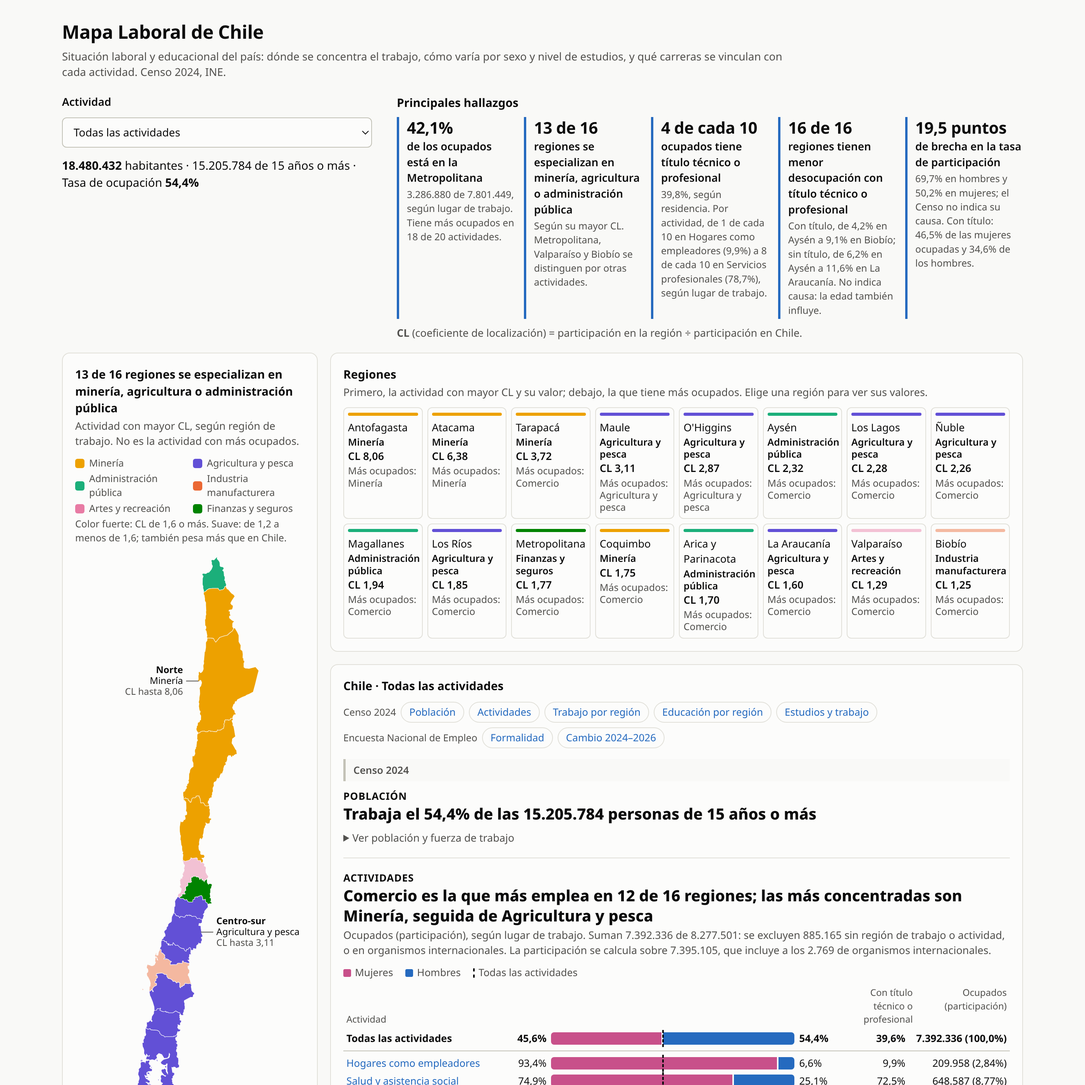
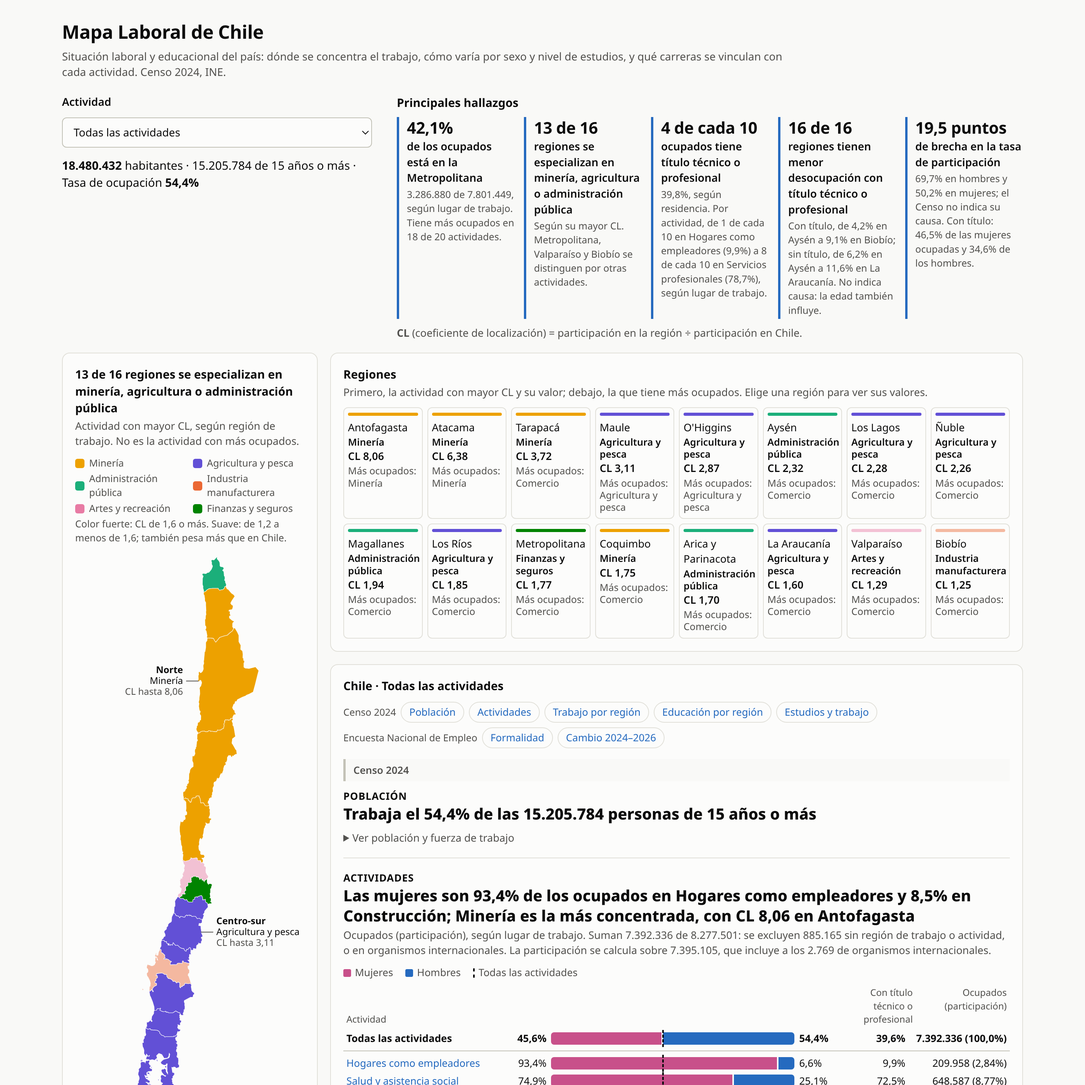
Ajusta el resumen para que cada gráfico se lea a la primera
- Actividades: rótulos de sus cifras en celular y un título que dice lo que muestran sus gráficos.
- Cambio 2024-2026 en dos tonos de violeta; ocre y azul quedan para informal y formal.
- Sin título superior en gris en Estudios y trabajo, no en verde.
- Aviso para deslizar las columnas por región, solo cuando no caben.
- Menos texto que repite el gráfico en Estudios y trabajo y Formalidad.

Changed region(s): [[0.3107, 0.8079, 0.9011, 0.87]]

diff --git a/docs/index.html b/docs/index.html
@@ -9,10 +9,13 @@ Estructura de la página. generar_mapa.py le agrega los estilos de css/, el cód
 <meta name="viewport" content="width=device-width, initial-scale=1">
 <title>Mapa Laboral de Chile</title>
 <style>
-.viz-root{color-scheme:light;--plano:#f9f9f7;--sup:#fcfcfb;--t1:#0b0b0b;--t2:#52514e;--linea:#e1e0d9;--eje:#c3c2b7;--acento:#256abf;--hom:#256abf;--muj:#c8508a;--cl:#c9302f;--a24:#c98a00;--a26:#256abf;--g24:#cfcdc6;--g26:#9a9890;--tit-con:#08724d;--tit-sin:#1baf7a;--recibe:#0081a8;--ed-pro:#08724d;--fo-inf:#c08a1e;--fo-for:#2a6ea8;--fo-for-txt:#fff;--ed-tec:#8a8a1a;--entrega:#b5562b;--aviso-fondo:#fdf4e3;
+/* Años del cambio (--a24, --a26): dos tonos de violeta, claro y oscuro como el par gris de "dentro del margen". Ocre y azul
+   no, porque en Formalidad, la sección anterior, significan informal y formal. Validados con validate_palette.js (--ordinal).
+   Sin título superior (--tit-sin) va en gris: en verde, el color de los títulos en Educación por región, se leía como titulado. */
+.viz-root{color-scheme:light;--plano:#f9f9f7;--sup:#fcfcfb;--t1:#0b0b0b;--t2:#52514e;--linea:#e1e0d9;--eje:#c3c2b7;--acento:#256abf;--hom:#256abf;--muj:#c8508a;--cl:#c9302f;--a24:#9d92ea;--a26:#4f3dbd;--g24:#cfcdc6;--g26:#9a9890;--tit-con:#08724d;--tit-sin:#a3a19a;--recibe:#0081a8;--ed-pro:#08724d;--fo-inf:#c08a1e;--fo-for:#2a6ea8;--fo-for-txt:#fff;--ed-tec:#8a8a1a;--entrega:#b5562b;--aviso-fondo:#fdf4e3;
 --sd:#bdbbb3;--c0:#3987e5;--c1:#86b6ef;--c2:#cde2fb;--c3:#e2e0d8;--c4:#f7c6c1;--c5:#ee8a84;--c6:#c9302f;
 --k0:#eda100;--k1:#6250d6;--k2:#1baf7a;--k3:#eb6834;--k4:#e87ba4;--k5:#008300;}
-@media (prefers-color-scheme:dark){.viz-root{color-scheme:dark;--plano:#0d0d0d;--sup:#1a1a19;--t1:#f0efec;--t2:#c3c2b7;--linea:#2c2c2a;--eje:#383835;--acento:#6da7ec;--hom:#4f8fe0;--muj:#d9619d;--cl:#e0605a;--a24:#c08400;--a26:#4f8fe0;--g24:#45443f;--g26:#7a7872;--tit-con:#1aab78;--tit-sin:#117350;--recibe:#1a9cc4;--ed-pro:#1aab78;--fo-inf:#c08400;--fo-for:#5a9ad0;--fo-for-txt:#0b0b0b;--ed-tec:#7a7a10;--entrega:#c9673a;--aviso-fondo:#2a2416;
+@media (prefers-color-scheme:dark){.viz-root{color-scheme:dark;--plano:#0d0d0d;--sup:#1a1a19;--t1:#f0efec;--t2:#c3c2b7;--linea:#2c2c2a;--eje:#383835;--acento:#6da7ec;--hom:#4f8fe0;--muj:#d9619d;--cl:#e0605a;--a24:#7466d8;--a26:#b2a9f2;--g24:#45443f;--g26:#7a7872;--tit-con:#1aab78;--tit-sin:#62615b;--recibe:#1a9cc4;--ed-pro:#1aab78;--fo-inf:#c08400;--fo-for:#5a9ad0;--fo-for-txt:#0b0b0b;--ed-tec:#7a7a10;--entrega:#c9673a;--aviso-fondo:#2a2416;
 --sd:#55534e;--c0:#5598e7;--c1:#256abf;--c2:#184f95;--c3:#383835;--c4:#7d2b2a;--c5:#b73a39;--c6:#ee8a84;
 --k0:#c98500;--k1:#9085e9;--k2:#199e70;--k3:#d95926;--k4:#d55181;--k5:#008300;}}
 *{box-sizing:border-box}
@@ -258,6 +261,8 @@ button.sn-fila{font:inherit;color:inherit;background:none;border:0;text-align:le
 @media(max-width:1290px){.detalle{grid-column:1/-1}.tarjeta.mapa{grid-row:auto}}
 @media(max-width:900px){.grilla{grid-template-columns:minmax(0,1fr)}}
 @media(max-width:640px){.fo-reg.gs-cab{display:grid}.fo-reg.gs-cab .fo-nombre,.fo-reg.gs-cab span:nth-child(2){display:none}.fo-reg.gs-cab .fo-miles{grid-column:2}.fo-panel .fo-fila,.fo-reg{grid-template-columns:minmax(0,1fr) 6.6em}.fo-paneles{grid-template-columns:minmax(0,1fr)}.fo-fila{grid-template-columns:minmax(0,1fr) 5.6em;row-gap:2px}.fo-nombre{grid-column:1/-1}.ed-fila{grid-template-columns:minmax(0,1fr) 5.4em;row-gap:2px}.ed-fila .cl-nombre{grid-column:1/-1}.ed-fila .gs-num{grid-column:2}.ed-fila.gs-cab{display:grid}.ed-fila.gs-cab .cl-nombre,.ed-fila.gs-cab span:nth-child(2){display:none}.tr-fila{grid-template-columns:minmax(0,1fr)}.gs-fila{grid-template-columns:3.4em minmax(0,1fr) 3.4em;row-gap:2px;padding:4px}.gs-nombre{grid-column:1/-1}.gs-cab{display:none}.sn-fila{grid-template-columns:minmax(0,1fr);row-gap:3px}.evc-col{width:26px}.evc-col em{font-size:11px}.evc-cols{gap:2px}.evc{padding-left:2em}.evc-grilla span{left:2em}.evc.compacto{padding-left:4.4em}.compacto .evc-grilla span{left:4.4em}table{display:block;overflow-x:auto}.viz-root{padding:14px}.grilla{grid-template-columns:minmax(0,1fr)}.mapa svg{max-width:200px}.lista{grid-template-columns:repeat(2,minmax(0,1fr))}}
+/* Actividades en celular: el encabezado de columnas se oculta, así que cada cifra lleva su rótulo en su propia línea. */
+@media(max-width:640px){.gs-extra{grid-column:1/-1;margin-left:0;grid-template-columns:auto auto;justify-content:start;gap:16px}.gs-extra .gs-num{text-align:left}.gs-et{display:inline;color:var(--t2)}}
 </style>
 </head>
 <body>
@@ -458,8 +463,12 @@ function extremosDesoc(){const d=Object.entries(EST.desocupacion_titulo),menor=d
  const rango=i=>{const [a,va]=d.reduce((m,x)=>x[1][i]<m[1][i]?x:m),[b,vb]=d.reduce((m,x)=>x[1][i]>m[1][i]?x:m);
   return `de ${num(va[i],1)}% en ${nomReg(Number(a))} a ${num(vb[i],1)}% en ${nomReg(Number(b))}`};
  return {menor,n:d.length,con:rango(0),sin:rango(1)}}
+// En pantallas angostas las columnas por región se desplazan hacia el lado; sin aviso, parecía que el gráfico terminaba
+// en la región cortada. Va oculto y se muestra solo si el gráfico no cabe (avisoDesliza, en navegacion.js).
+const AVISO_DESLIZA=`<p class="nota evc-aviso" hidden>Desliza el gráfico hacia el lado para ver las 16 regiones.</p>`;
+// El título de la sección ya dice en cuántas regiones es menor: el párrafo da solo los dos rangos.
 function desocTitulo(){const e=extremosDesoc();
- return `${e.menor===e.n?`En las ${e.n} regiones`:`En ${e.menor} de ${e.n} regiones`}, la tasa de desocupación es menor con título técnico o profesional que sin título superior. Con título va ${e.con}; sin título, ${e.sin}.`}
+ return `Con título técnico o profesional, la tasa de desocupación va ${e.con}; sin título superior, ${e.sin}.`}
 // Evolución según ENE: las frases salen de la lectura de cada fila, que solo dice "sube" o "baja" si el rango
 // entero queda a un lado del cero.
 // "Dentro del margen" y no "sin cambio claro": dice por qué no se afirma un cambio, aunque las columnas difieran.
@@ -493,7 +502,7 @@ function columnasEvolucion(titulo,grupos,tope,compacto){const pos=x=>100*x/tope,
  const hayGris=grupos.some(([,d])=>d.lect==="sin_cambio_claro");
  return `<figure class="graf-ev" style="margin-left:0;margin-right:0"><figcaption class="gs-leyenda"><span><strong style="color:var(--t1)">${titulo}</strong></span>`+
   `<span><i class="a24"></i>2024</span><span><i class="a26"></i>2026</span>${hayGris?`<span><i class="g24"></i><i class="g26"></i>Dentro del margen de error</span>`:""}</figcaption>`+
-  `<div class="${compacto?"evc-desliza":""}"><div class="evc${compacto?" compacto":""}">`+
+  `${compacto?AVISO_DESLIZA:""}<div class="${compacto?"evc-desliza":""}"><div class="evc${compacto?" compacto":""}">`+
   (compacto?`<div class="evc-rotulos" aria-hidden="true"><span>Cambio</span></div>`:"")+
   `<div class="evc-grilla" aria-hidden="true">${marcas.map(m=>`<span style="bottom:${pos(m)}%"><small>${m}%</small></span>`).join("")}</div>`+
   grupos.map(grupo).join("")+`</div></div></figure>`}
@@ -555,7 +564,9 @@ function graficoFormalidadNivel(){const filas=[["Chile",FOR.chile," cl-total"],.
  return `<figure class="graf-fo" style="margin-left:0;margin-right:0"><figcaption class="gs-leyenda"><span><strong style="color:var(--t1)">Formalidad por nivel de estudios, Chile</strong></span>${leyendaFormal}</figcaption>`+
   `<div class="fo-paneles">${grupos.map(panel).join("")}</div></figure>`+
   `<p class="nota" style="margin:2px 0 8px">% de los ocupados, de los asalariados y de los independientes de cada nivel; a la derecha, cuántos son. `+
-  `Todos los ocupados incluye al familiar no remunerado, que no es asalariado ni independiente y siempre es informal.</p>`}
+  `Todos los ocupados incluye al familiar no remunerado, que no es asalariado ni independiente y siempre es informal. `+
+  // Las definiciones van junto al gráfico que las usa: antes estaban en la nota de arriba y alejaban el gráfico del título.
+  `Asalariado: sector privado, público o servicio doméstico. Independiente: empleador o cuenta propia.</p>`}
 // Formalidad por región: barras formal/informal como las de los niveles, de mayor a menor informalidad, con Chile
 // primero y una línea en su informalidad; el % de independientes va como cifra. No se pinta énfasis sobre o bajo Chile:
 // no hay margen de error por región y una diferencia de uno o dos puntos puede deberse a la muestra.
@@ -580,8 +591,7 @@ function formalidadHtml(){const c=FOR.chile,n=FOR.niveles,[rMin,rMax]=extremos(r
  return `${encabezado("sec-for","Formalidad",`Sin título superior, ${num(n.Sin_titulo.for[1],1)}% tiene empleo formal y ${num(n.Sin_titulo.inf[1],1)}% informal; con título profesional, ${num(n.Profesional.for[1],1)}% y ${num(n.Profesional.inf[1],1)}%`,true)}
  <div class="nota">Encuesta Nacional de Empleo (INE), ${PER.ene_actual}. Ocupados según región de residencia. Son estimaciones con muestra: las cifras tienen margen de error. `+
   // Sin esta aclaración, los 9,4 millones de ocupados de la ENE parecen contradecir los 8,3 millones del Censo de las pestañas anteriores.
-  `Es otra fuente y otro período que el Censo 2024: estima ${enMiles(c.ocup)} de ocupados, frente a los ${enMiles(POB.chile.trabajan)} que contó el Censo, y sus cifras no se mezclan. `+
-  `Independiente: empleador o cuenta propia. Asalariado: sector privado, público o servicio doméstico.</div>
+  `Es otra fuente y otro período que el Censo 2024: estima ${enMiles(c.ocup)} de ocupados, frente a los ${enMiles(POB.chile.trabajan)} que contó el Censo, y sus cifras no se mezclan.</div>
  <p style="margin:8px 0 0">En Chile, ${enMiles(c.inf[0])} de ocupados son informales (${num(c.inf[1],1)}%) y ${enMiles(c.for[0])} formales (${num(c.for[1],1)}%). `+
   `Hay ${enMiles(c.asa[0])} de asalariados y ${enMiles(c.inx[0])} de independientes (${num(c.ind[1],1)}% de los ocupados). `+
   `La informalidad va de ${num(rMin[1],1)}% en ${enReg(rMin[0])} a ${num(rMax[1],1)}% en ${enReg(rMax[0])}.</p>
@@ -737,7 +747,7 @@ function columnasTitulo(){const filas=Object.entries(EST.desocupacion_titulo).so
    `<span class="evc-nombre"><span>${t}</span></span><span class="evc-dif">+${num(sn-c,1)}</span></${tag}>`};
  return `<figure class="graf-ev" style="margin-left:0;margin-right:0"><figcaption class="gs-leyenda"><span><strong style="color:var(--t1)">Tasa de desocupación por región</strong></span>`+
   `<span><i class="tcon"></i>Con título técnico o profesional</span><span><i class="tsin"></i>Sin título superior</span></figcaption>`+
-  `<div class="evc-desliza"><div class="evc compacto"><div class="evc-rotulos" aria-hidden="true"><span>Diferencia</span></div>`+
+  AVISO_DESLIZA+`<div class="evc-desliza"><div class="evc compacto"><div class="evc-rotulos" aria-hidden="true"><span>Diferencia</span></div>`+
   `<div class="evc-grilla" aria-hidden="true">${marcas.map(m=>`<span style="bottom:${pos(m)}%"><small>${m}%</small></span>`).join("")}</div>`+
   grupo("Chile",EST.desocupacion_titulo_chile," evc-total","")+filas.map(([r,v])=>grupo(nomReg(r),v,"",`data-r="${r}"`)).join("")+`</div></div></figure>`+
   `<p class="nota" style="margin:2px 0 0">Bajo cada región, la diferencia en pp (sin título menos con título). Tasa según región de residencia.</p>`}
@@ -757,7 +767,9 @@ function vistaResumen(){
  const ch=POB.chile,sH=POB.sexo.hombres,sM=POB.sexo.mujeres;
  const sinRegion=DATOS.actividades.filter(a=>a.pct_sin_region>=10).sort((a,b)=>b.pct_sin_region-a.pct_sin_region);
  const conMasCarreras=[...DATOS.actividades].sort((a,b)=>b.afines.length-a.afines.length).slice(0,3);
- const corto=c=>esc(porCiiu(c).corto),me=RES.mayor_empleador,[d1,d2]=RES.mas_desiguales;
+ const corto=c=>esc(porCiiu(c).corto),[d1]=RES.mas_desiguales;
+ // El título nombra lo que muestran los dos gráficos de la sección: mujeres por actividad y la mayor concentración.
+ const porMujeres=[...DATOS.actividades].sort((a,b)=>b.sexo.pct_m-a.sexo.pct_m),mMax=porMujeres[0],mMin=porMujeres[porMujeres.length-1];
  const [desMin,desMax]=extremos(r=>POB.regiones[r].tasa_desocupacion),[titMin,titMax]=extremos(r=>pctTitulo(EDU[r])),e=extremosDesoc();
  return `<h2>Chile · Todas las actividades</h2>${indiceHtml()}
  ${banda("Censo 2024")}
@@ -777,7 +789,7 @@ function vistaResumen(){
  ${filasSituacion(ch,sH,sM,true)}
  </tbody></table></div>
  <div class="aviso">Estar fuera de la fuerza de trabajo no equivale a desempleo. El Censo registra la actividad solo de los ocupados.</div></details>
- ${encabezado("sec-act","Actividades",`${corto(me.ciiu)} es la que más emplea en ${me.n} de 16 regiones; las más concentradas son ${corto(d1.ciiu)}, seguida de ${corto(d2.ciiu)}`)}
+ ${encabezado("sec-act","Actividades",`Las mujeres son ${num(mMax.sexo.pct_m,1)}% de los ocupados en ${esc(mMax.corto)} y ${num(mMin.sexo.pct_m,1)}% en ${esc(mMin.corto)}; ${corto(d1.ciiu)} es la más concentrada, con CL ${d1.txt} en ${enReg(d1.r)}`)}
  <div class="nota">Ocupados (participación), según lugar de trabajo. `+
   `Suman ${num(RES.total)} de ${num(ch.trabajan)}: se excluyen ${num(ch.trabajan-RES.total)} sin región de trabajo o actividad, o en organismos internacionales. `+
   // La ficha de cada región muestra la base de la participación; sin esto, sus dos totales de Chile parecían contradecirse.
@@ -964,6 +976,8 @@ function leerVista(){const [c,r,f]=location.hash.slice(1).split("/");
  reg=act&&r&&act.regiones[Number(r)]?Number(r):null;
  const k=f?decodeURIComponent(f):null;ficha=act&&k&&DATOS.fichas[k]?k:null;
  sel.value=act?act.ciiu:""}
+// Muestra el aviso de cada gráfico de columnas solo si no cabe en el ancho disponible.
+function avisoDesliza(){document.querySelectorAll(".evc-desliza").forEach(d=>{const a=d.previousElementSibling;if(a?.classList.contains("evc-aviso"))a.hidden=d.scrollWidth<=d.clientWidth+1})}
 function detalle(){
  guardarVista();
  // El panel se redibuja bajo el puntero: sin esto, el texto emergente del gráfico quedaría fijo en pantalla.
@@ -971,7 +985,7 @@ function detalle(){
  // El botón vuelve al resumen y también suelta la región: la etiqueta nombra a Chile para que no sorprenda.
  let h=!act?vistaResumen():`<button class="enlace volver" id="volver">← Chile · Todas las actividades</button>`+(reg==null?vistaChile():vistaRegion())+bloqueCarreras();
  if(act&&ficha)h+=fichaHtml(ficha);
- const e=document.getElementById("detalle");e.innerHTML=h;
+ const e=document.getElementById("detalle");e.innerHTML=h;avisoDesliza();
  document.getElementById("volver")?.addEventListener("click",()=>{act=null;reg=null;ficha=null;sel.value="";pintar();sel.focus()});
  e.querySelectorAll("[data-a]").forEach(b=>b.onclick=()=>{act=porCiiu(b.dataset.a);sel.value=act.ciiu;ficha=null;pintar();sel.focus({preventScroll:true});mostrarDetalle()});
  e.querySelectorAll("button[data-r]").forEach(b=>b.onclick=()=>{reg=Number(b.dataset.r);ficha=null;pintar();document.querySelector(`#lista button[data-r="${reg}"]`)?.focus({preventScroll:true});mostrarDetalle()});
@@ -1007,6 +1021,6 @@ document.querySelectorAll(".region").forEach(p=>{const r=Number(p.dataset.r);
 addEventListener("popstate",()=>{reemplazar=true;leerVista();pintar();if(ficha)document.getElementById("ficha")?.scrollIntoView({block:"nearest"});else if(act)mostrarDetalle();else scrollTo(0,0)});
 leerVista();
 pintar();
-addEventListener("resize",()=>{if(!act)anotarMapa(NOTAS_MAPA)});
+addEventListener("resize",()=>{if(!act)anotarMapa(NOTAS_MAPA);avisoDesliza()});
 </script>
 </body></html>

diff --git a/src/Visualizacion/web/js/vistas/resumen.js b/src/Visualizacion/web/js/vistas/resumen.js
@@ -10,8 +10,12 @@ function extremosDesoc(){const d=Object.entries(EST.desocupacion_titulo),menor=d
  const rango=i=>{const [a,va]=d.reduce((m,x)=>x[1][i]<m[1][i]?x:m),[b,vb]=d.reduce((m,x)=>x[1][i]>m[1][i]?x:m);
   return `de ${num(va[i],1)}% en ${nomReg(Number(a))} a ${num(vb[i],1)}% en ${nomReg(Number(b))}`};
  return {menor,n:d.length,con:rango(0),sin:rango(1)}}
+// En pantallas angostas las columnas por región se desplazan hacia el lado; sin aviso, parecía que el gráfico terminaba
+// en la región cortada. Va oculto y se muestra solo si el gráfico no cabe (avisoDesliza, en navegacion.js).
+const AVISO_DESLIZA=`<p class="nota evc-aviso" hidden>Desliza el gráfico hacia el lado para ver las 16 regiones.</p>`;
+// El título de la sección ya dice en cuántas regiones es menor: el párrafo da solo los dos rangos.
 function desocTitulo(){const e=extremosDesoc();
- return `${e.menor===e.n?`En las ${e.n} regiones`:`En ${e.menor} de ${e.n} regiones`}, la tasa de desocupación es menor con título técnico o profesional que sin título superior. Con título va ${e.con}; sin título, ${e.sin}.`}
+ return `Con título técnico o profesional, la tasa de desocupación va ${e.con}; sin título superior, ${e.sin}.`}
 // Evolución según ENE: las frases salen de la lectura de cada fila, que solo dice "sube" o "baja" si el rango
 // entero queda a un lado del cero.
 // "Dentro del margen" y no "sin cambio claro": dice por qué no se afirma un cambio, aunque las columnas difieran.
@@ -45,7 +49,7 @@ function columnasEvolucion(titulo,grupos,tope,compacto){const pos=x=>100*x/tope,
  const hayGris=grupos.some(([,d])=>d.lect==="sin_cambio_claro");
  return `<figure class="graf-ev" style="margin-left:0;margin-right:0"><figcaption class="gs-leyenda"><span><strong style="color:var(--t1)">${titulo}</strong></span>`+
   `<span><i class="a24"></i>2024</span><span><i class="a26"></i>2026</span>${hayGris?`<span><i class="g24"></i><i class="g26"></i>Dentro del margen de error</span>`:""}</figcaption>`+
-  `<div class="${compacto?"evc-desliza":""}"><div class="evc${compacto?" compacto":""}">`+
+  `${compacto?AVISO_DESLIZA:""}<div class="${compacto?"evc-desliza":""}"><div class="evc${compacto?" compacto":""}">`+
   (compacto?`<div class="evc-rotulos" aria-hidden="true"><span>Cambio</span></div>`:"")+
   `<div class="evc-grilla" aria-hidden="true">${marcas.map(m=>`<span style="bottom:${pos(m)}%"><small>${m}%</small></span>`).join("")}</div>`+
   grupos.map(grupo).join("")+`</div></div></figure>`}
@@ -107,7 +111,9 @@ function graficoFormalidadNivel(){const filas=[["Chile",FOR.chile," cl-total"],.
  return `<figure class="graf-fo" style="margin-left:0;margin-right:0"><figcaption class="gs-leyenda"><span><strong style="color:var(--t1)">Formalidad por nivel de estudios, Chile</strong></span>${leyendaFormal}</figcaption>`+
   `<div class="fo-paneles">${grupos.map(panel).join("")}</div></figure>`+
   `<p class="nota" style="margin:2px 0 8px">% de los ocupados, de los asalariados y de los independientes de cada nivel; a la derecha, cuántos son. `+
-  `Todos los ocupados incluye al familiar no remunerado, que no es asalariado ni independiente y siempre es informal.</p>`}
+  `Todos los ocupados incluye al familiar no remunerado, que no es asalariado ni independiente y siempre es informal. `+
+  // Las definiciones van junto al gráfico que las usa: antes estaban en la nota de arriba y alejaban el gráfico del título.
+  `Asalariado: sector privado, público o servicio doméstico. Independiente: empleador o cuenta propia.</p>`}
 // Formalidad por región: barras formal/informal como las de los niveles, de mayor a menor informalidad, con Chile
 // primero y una línea en su informalidad; el % de independientes va como cifra. No se pinta énfasis sobre o bajo Chile:
 // no hay margen de error por región y una diferencia de uno o dos puntos puede deberse a la muestra.
@@ -132,8 +138,7 @@ function formalidadHtml(){const c=FOR.chile,n=FOR.niveles,[rMin,rMax]=extremos(r
  return `${encabezado("sec-for","Formalidad",`Sin título superior, ${num(n.Sin_titulo.for[1],1)}% tiene empleo formal y ${num(n.Sin_titulo.inf[1],1)}% informal; con título profesional, ${num(n.Profesional.for[1],1)}% y ${num(n.Profesional.inf[1],1)}%`,true)}
  <div class="nota">Encuesta Nacional de Empleo (INE), ${PER.ene_actual}. Ocupados según región de residencia. Son estimaciones con muestra: las cifras tienen margen de error. `+
   // Sin esta aclaración, los 9,4 millones de ocupados de la ENE parecen contradecir los 8,3 millones del Censo de las pestañas anteriores.
-  `Es otra fuente y otro período que el Censo 2024: estima ${enMiles(c.ocup)} de ocupados, frente a los ${enMiles(POB.chile.trabajan)} que contó el Censo, y sus cifras no se mezclan. `+
-  `Independiente: empleador o cuenta propia. Asalariado: sector privado, público o servicio doméstico.</div>
+  `Es otra fuente y otro período que el Censo 2024: estima ${enMiles(c.ocup)} de ocupados, frente a los ${enMiles(POB.chile.trabajan)} que contó el Censo, y sus cifras no se mezclan.</div>
  <p style="margin:8px 0 0">En Chile, ${enMiles(c.inf[0])} de ocupados son informales (${num(c.inf[1],1)}%) y ${enMiles(c.for[0])} formales (${num(c.for[1],1)}%). `+
   `Hay ${enMiles(c.asa[0])} de asalariados y ${enMiles(c.inx[0])} de independientes (${num(c.ind[1],1)}% de los ocupados). `+
   `La informalidad va de ${num(rMin[1],1)}% en ${enReg(rMin[0])} a ${num(rMax[1],1)}% en ${enReg(rMax[0])}.</p>
@@ -289,7 +294,7 @@ function columnasTitulo(){const filas=Object.entries(EST.desocupacion_titulo).so
    `<span class="evc-nombre"><span>${t}</span></span><span class="evc-dif">+${num(sn-c,1)}</span></${tag}>`};
  return `<figure class="graf-ev" style="margin-left:0;margin-right:0"><figcaption class="gs-leyenda"><span><strong style="color:var(--t1)">Tasa de desocupación por región</strong></span>`+
   `<span><i class="tcon"></i>Con título técnico o profesional</span><span><i class="tsin"></i>Sin título superior</span></figcaption>`+
-  `<div class="evc-desliza"><div class="evc compacto"><div class="evc-rotulos" aria-hidden="true"><span>Diferencia</span></div>`+
+  AVISO_DESLIZA+`<div class="evc-desliza"><div class="evc compacto"><div class="evc-rotulos" aria-hidden="true"><span>Diferencia</span></div>`+
   `<div class="evc-grilla" aria-hidden="true">${marcas.map(m=>`<span style="bottom:${pos(m)}%"><small>${m}%</small></span>`).join("")}</div>`+
   grupo("Chile",EST.desocupacion_titulo_chile," evc-total","")+filas.map(([r,v])=>grupo(nomReg(r),v,"",`data-r="${r}"`)).join("")+`</div></div></figure>`+
   `<p class="nota" style="margin:2px 0 0">Bajo cada región, la diferencia en pp (sin título menos con título). Tasa según región de residencia.</p>`}
@@ -309,7 +314,9 @@ function vistaResumen(){
  const ch=POB.chile,sH=POB.sexo.hombres,sM=POB.sexo.mujeres;
  const sinRegion=DATOS.actividades.filter(a=>a.pct_sin_region>=10).sort((a,b)=>b.pct_sin_region-a.pct_sin_region);
  const conMasCarreras=[...DATOS.actividades].sort((a,b)=>b.afines.length-a.afines.length).slice(0,3);
- const corto=c=>esc(porCiiu(c).corto),me=RES.mayor_empleador,[d1,d2]=RES.mas_desiguales;
+ const corto=c=>esc(porCiiu(c).corto),[d1]=RES.mas_desiguales;
+ // El título nombra lo que muestran los dos gráficos de la sección: mujeres por actividad y la mayor concentración.
+ const porMujeres=[...DATOS.actividades].sort((a,b)=>b.sexo.pct_m-a.sexo.pct_m),mMax=porMujeres[0],mMin=porMujeres[porMujeres.length-1];
  const [desMin,desMax]=extremos(r=>POB.regiones[r].tasa_desocupacion),[titMin,titMax]=extremos(r=>pctTitulo(EDU[r])),e=extremosDesoc();
  return `<h2>Chile · Todas las actividades</h2>${indiceHtml()}
  ${banda("Censo 2024")}
@@ -329,7 +336,7 @@ function vistaResumen(){
  ${filasSituacion(ch,sH,sM,true)}
  </tbody></table></div>
  <div class="aviso">Estar fuera de la fuerza de trabajo no equivale a desempleo. El Censo registra la actividad solo de los ocupados.</div></details>
- ${encabezado("sec-act","Actividades",`${corto(me.ciiu)} es la que más emplea en ${me.n} de 16 regiones; las más concentradas son ${corto(d1.ciiu)}, seguida de ${corto(d2.ciiu)}`)}
+ ${encabezado("sec-act","Actividades",`Las mujeres son ${num(mMax.sexo.pct_m,1)}% de los ocupados en ${esc(mMax.corto)} y ${num(mMin.sexo.pct_m,1)}% en ${esc(mMin.corto)}; ${corto(d1.ciiu)} es la más concentrada, con CL ${d1.txt} en ${enReg(d1.r)}`)}
  <div class="nota">Ocupados (participación), según lugar de trabajo. `+
   `Suman ${num(RES.total)} de ${num(ch.trabajan)}: se excluyen ${num(ch.trabajan-RES.total)} sin región de trabajo o actividad, o en organismos internacionales. `+
   // La ficha de cada región muestra la base de la participación; sin esto, sus dos totales de Chile parecían contradecirse.

diff --git a/src/Visualizacion/web/css/base.css b/src/Visualizacion/web/css/base.css
@@ -3,10 +3,13 @@
 
 Colores (modo claro y oscuro), tipografía y estilos generales de texto, tablas y desplegables.
 */
-.viz-root{color-scheme:light;--plano:#f9f9f7;--sup:#fcfcfb;--t1:#0b0b0b;--t2:#52514e;--linea:#e1e0d9;--eje:#c3c2b7;--acento:#256abf;--hom:#256abf;--muj:#c8508a;--cl:#c9302f;--a24:#c98a00;--a26:#256abf;--g24:#cfcdc6;--g26:#9a9890;--tit-con:#08724d;--tit-sin:#1baf7a;--recibe:#0081a8;--ed-pro:#08724d;--fo-inf:#c08a1e;--fo-for:#2a6ea8;--fo-for-txt:#fff;--ed-tec:#8a8a1a;--entrega:#b5562b;--aviso-fondo:#fdf4e3;
+/* Años del cambio (--a24, --a26): dos tonos de violeta, claro y oscuro como el par gris de "dentro del margen". Ocre y azul
+   no, porque en Formalidad, la sección anterior, significan informal y formal. Validados con validate_palette.js (--ordinal).
+   Sin título superior (--tit-sin) va en gris: en verde, el color de los títulos en Educación por región, se leía como titulado. */
+.viz-root{color-scheme:light;--plano:#f9f9f7;--sup:#fcfcfb;--t1:#0b0b0b;--t2:#52514e;--linea:#e1e0d9;--eje:#c3c2b7;--acento:#256abf;--hom:#256abf;--muj:#c8508a;--cl:#c9302f;--a24:#9d92ea;--a26:#4f3dbd;--g24:#cfcdc6;--g26:#9a9890;--tit-con:#08724d;--tit-sin:#a3a19a;--recibe:#0081a8;--ed-pro:#08724d;--fo-inf:#c08a1e;--fo-for:#2a6ea8;--fo-for-txt:#fff;--ed-tec:#8a8a1a;--entrega:#b5562b;--aviso-fondo:#fdf4e3;
 --sd:#bdbbb3;--c0:#3987e5;--c1:#86b6ef;--c2:#cde2fb;--c3:#e2e0d8;--c4:#f7c6c1;--c5:#ee8a84;--c6:#c9302f;
 --k0:#eda100;--k1:#6250d6;--k2:#1baf7a;--k3:#eb6834;--k4:#e87ba4;--k5:#008300;}
-@media (prefers-color-scheme:dark){.viz-root{color-scheme:dark;--plano:#0d0d0d;--sup:#1a1a19;--t1:#f0efec;--t2:#c3c2b7;--linea:#2c2c2a;--eje:#383835;--acento:#6da7ec;--hom:#4f8fe0;--muj:#d9619d;--cl:#e0605a;--a24:#c08400;--a26:#4f8fe0;--g24:#45443f;--g26:#7a7872;--tit-con:#1aab78;--tit-sin:#117350;--recibe:#1a9cc4;--ed-pro:#1aab78;--fo-inf:#c08400;--fo-for:#5a9ad0;--fo-for-txt:#0b0b0b;--ed-tec:#7a7a10;--entrega:#c9673a;--aviso-fondo:#2a2416;
+@media (prefers-color-scheme:dark){.viz-root{color-scheme:dark;--plano:#0d0d0d;--sup:#1a1a19;--t1:#f0efec;--t2:#c3c2b7;--linea:#2c2c2a;--eje:#383835;--acento:#6da7ec;--hom:#4f8fe0;--muj:#d9619d;--cl:#e0605a;--a24:#7466d8;--a26:#b2a9f2;--g24:#45443f;--g26:#7a7872;--tit-con:#1aab78;--tit-sin:#62615b;--recibe:#1a9cc4;--ed-pro:#1aab78;--fo-inf:#c08400;--fo-for:#5a9ad0;--fo-for-txt:#0b0b0b;--ed-tec:#7a7a10;--entrega:#c9673a;--aviso-fondo:#2a2416;
 --sd:#55534e;--c0:#5598e7;--c1:#256abf;--c2:#184f95;--c3:#383835;--c4:#7d2b2a;--c5:#b73a39;--c6:#ee8a84;
 --k0:#c98500;--k1:#9085e9;--k2:#199e70;--k3:#d95926;--k4:#d55181;--k5:#008300;}}
 *{box-sizing:border-box}

diff --git a/src/Visualizacion/web/css/layout.css b/src/Visualizacion/web/css/layout.css
@@ -30,3 +30,5 @@ Va al final porque sus reglas para pantallas angostas deben ganar sobre las de c
 @media(max-width:1290px){.detalle{grid-column:1/-1}.tarjeta.mapa{grid-row:auto}}
 @media(max-width:900px){.grilla{grid-template-columns:minmax(0,1fr)}}
 @media(max-width:640px){.fo-reg.gs-cab{display:grid}.fo-reg.gs-cab .fo-nombre,.fo-reg.gs-cab span:nth-child(2){display:none}.fo-reg.gs-cab .fo-miles{grid-column:2}.fo-panel .fo-fila,.fo-reg{grid-template-columns:minmax(0,1fr) 6.6em}.fo-paneles{grid-template-columns:minmax(0,1fr)}.fo-fila{grid-template-columns:minmax(0,1fr) 5.6em;row-gap:2px}.fo-nombre{grid-column:1/-1}.ed-fila{grid-template-columns:minmax(0,1fr) 5.4em;row-gap:2px}.ed-fila .cl-nombre{grid-column:1/-1}.ed-fila .gs-num{grid-column:2}.ed-fila.gs-cab{display:grid}.ed-fila.gs-cab .cl-nombre,.ed-fila.gs-cab span:nth-child(2){display:none}.tr-fila{grid-template-columns:minmax(0,1fr)}.gs-fila{grid-template-columns:3.4em minmax(0,1fr) 3.4em;row-gap:2px;padding:4px}.gs-nombre{grid-column:1/-1}.gs-cab{display:none}.sn-fila{grid-template-columns:minmax(0,1fr);row-gap:3px}.evc-col{width:26px}.evc-col em{font-size:11px}.evc-cols{gap:2px}.evc{padding-left:2em}.evc-grilla span{left:2em}.evc.compacto{padding-left:4.4em}.compacto .evc-grilla span{left:4.4em}table{display:block;overflow-x:auto}.viz-root{padding:14px}.grilla{grid-template-columns:minmax(0,1fr)}.mapa svg{max-width:200px}.lista{grid-template-columns:repeat(2,minmax(0,1fr))}}
+/* Actividades en celular: el encabezado de columnas se oculta, así que cada cifra lleva su rótulo en su propia línea. */
+@media(max-width:640px){.gs-extra{grid-column:1/-1;margin-left:0;grid-template-columns:auto auto;justify-content:start;gap:16px}.gs-extra .gs-num{text-align:left}.gs-et{display:inline;color:var(--t2)}}

diff --git a/src/Visualizacion/web/js/navegacion.js b/src/Visualizacion/web/js/navegacion.js
@@ -17,6 +17,8 @@ function leerVista(){const [c,r,f]=location.hash.slice(1).split("/");
  reg=act&&r&&act.regiones[Number(r)]?Number(r):null;
  const k=f?decodeURIComponent(f):null;ficha=act&&k&&DATOS.fichas[k]?k:null;
  sel.value=act?act.ciiu:""}
+// Muestra el aviso de cada gráfico de columnas solo si no cabe en el ancho disponible.
+function avisoDesliza(){document.querySelectorAll(".evc-desliza").forEach(d=>{const a=d.previousElementSibling;if(a?.classList.contains("evc-aviso"))a.hidden=d.scrollWidth<=d.clientWidth+1})}
 function detalle(){
  guardarVista();
  // El panel se redibuja bajo el puntero: sin esto, el texto emergente del gráfico quedaría fijo en pantalla.
@@ -24,7 +26,7 @@ function detalle(){
  // El botón vuelve al resumen y también suelta la región: la etiqueta nombra a Chile para que no sorprenda.
  let h=!act?vistaResumen():`<button class="enlace volver" id="volver">← Chile · Todas las actividades</button>`+(reg==null?vistaChile():vistaRegion())+bloqueCarreras();
  if(act&&ficha)h+=fichaHtml(ficha);
- const e=document.getElementById("detalle");e.innerHTML=h;
+ const e=document.getElementById("detalle");e.innerHTML=h;avisoDesliza();
  document.getElementById("volver")?.addEventListener("click",()=>{act=null;reg=null;ficha=null;sel.value="";pintar();sel.focus()});
  e.querySelectorAll("[data-a]").forEach(b=>b.onclick=()=>{act=porCiiu(b.dataset.a);sel.value=act.ciiu;ficha=null;pintar();sel.focus({preventScroll:true});mostrarDetalle()});
  e.querySelectorAll("button[data-r]").forEach(b=>b.onclick=()=>{reg=Number(b.dataset.r);ficha=null;pintar();document.querySelector(`#lista button[data-r="${reg}"]`)?.focus({preventScroll:true});mostrarDetalle()});

diff --git a/src/Visualizacion/web/js/main.js b/src/Visualizacion/web/js/main.js
@@ -26,4 +26,4 @@ document.querySelectorAll(".region").forEach(p=>{const r=Number(p.dataset.r);
 addEventListener("popstate",()=>{reemplazar=true;leerVista();pintar();if(ficha)document.getElementById("ficha")?.scrollIntoView({block:"nearest"});else if(act)mostrarDetalle();else scrollTo(0,0)});
 leerVista();
 pintar();
-addEventListener("resize",()=>{if(!act)anotarMapa(NOTAS_MAPA)});
+addEventListener("resize",()=>{if(!act)anotarMapa(NOTAS_MAPA);avisoDesliza()});

diff --git a/src/Visualizacion/controles.py b/src/Visualizacion/controles.py
@@ -110,6 +110,8 @@ def validar(datos: dict, geo: dict, html: str, codigo_js: dict[str, str], sin_li
         "Resumen: cada color se usa": {d["ciiu"] for d in datos["resumen"]["regiones"].values()} == set(COLOR_RESUMEN),
         "Resumen: Metropolitana en 18 de 20; excepciones en Maule y Antofagasta": datos["resumen"]["n_metropolitana"] == 18 and sorted(e["r"] for e in datos["resumen"]["excepciones"]) == [2, 7],
         "Resumen: Comercio emplea más en 12 de 16 regiones": datos["resumen"]["mayor_empleador"] == {"ciiu": "G", "n": 12},
+        "Título de Actividades: mujeres de 93,4% en Hogares a 8,5% en Construcción; Minería con CL 8,06 en Antofagasta": (lambda s: (s[0][0], round(s[0][1], 1), s[-1][0], round(s[-1][1], 1)) == ("T", 93.4, "F", 8.5))(sorted(((a["ciiu"], a["sexo"]["pct_m"]) for a in datos["actividades"]), key=lambda x: -x[1]))
+            and (datos["resumen"]["mas_desiguales"][0]["txt"], datos["resumen"]["mas_desiguales"][0]["r"]) == ("8,06", 2),
         "Resumen: Minería y Agricultura son las más desiguales": [d["ciiu"] for d in datos["resumen"]["mas_desiguales"]] == ["B", "A"],
         # La leyenda del mapa dice que el color suave también pesa más que en Chile: ninguna región puede quedar bajo 1,2.
         "Resumen: la actividad con mayor CL de cada región tiene CL de 1,2 o más": all(round(d["peso"], 2) >= CORTES_ROJO[0] for d in datos["resumen"]["regiones"].values()),

diff --git a/docs/nota_de_lectura.md b/docs/nota_de_lectura.md
@@ -40,7 +40,7 @@ La vista inicial resume la población, las 20 actividades, la actividad con mayo
 | **Ingreso medio** | Ingreso bruto mensual medio al 1er y al 5° año, en pesos de septiembre de 2025. Son generaciones distintas, no una evolución. MiFuturo los publica por tipo de institución (universidad, IP o CFT), no por institución, así que no tienen rango. Solo consideran a titulados de hasta 30 años | MiFuturo |
 | **Trabajo por región** | Dos gráficos, según los datos de la tabla. El primero reparte la población de 15 años o más de cada región en ocupados, desocupados, fuera de la fuerza de trabajo y sin dato, según residencia, en barras 100% con el formato de Estudios y trabajo; va de mayor a menor desocupación, con Chile primero y las dos tasas al lado. El segundo compara los ocupados que trabajan en la región con los que viven en ella, frente a Chile: en Antofagasta trabajan 126 por cada 100 que viven y en Chile 94, así que tiene 34,1% más que Chile; Coquimbo tiene 5,4% menos. La leyenda no afirma que los ocupados se trasladen, porque una barra negativa también puede venir de más ocupados sin región de trabajo. Se compara con Chile y no se resta directo porque 5,8% de los ocupados no tiene región de trabajo; se supone que esa falta de dato pesa igual en cada región. Las cifras completas están en "Ver cifras". La tasa depende de la edad de la población de cada región | Censo 2024 |
 | **Situación educacional por región** | Población de 15 años o más por nivel de estudios, según residencia, con nivel y situación laboral informados (15.102.704 personas). Se excluyen 97.157 sin nivel informado y 5.923 sin situación laboral. Incluye a jóvenes que aún estudian, así que el % con título depende de la edad de cada región: 28,2% en Chile, de 21,1% en Maule a 32,9% en la Metropolitana. Es menos que el 39,8% de los ocupados porque esta base incluye a quienes no trabajan; el título de la sección lo dice para que no se confundan. En el gráfico, cada barra apila profesional y técnico desde 0, de mayor a menor % con título, con Chile primero y una línea en su 28,2%; a la derecha va el % sin título superior, para que los tres niveles sumen 100. El profesional va primero porque es donde está casi toda la diferencia (13,4% a 23,1%); el técnico varía de 7,3% a 12,3%. Las cifras completas están en "Ver cifras" | Censo 2024 |
-| **Estudios y trabajo** | Ocupados, tasa de desocupación y tasa de participación por nivel, en Chile. Base: residencia y nivel informado (8.273.406 ocupados). También el % con título de los ocupados por sexo, y la tasa de desocupación con y sin título en cada región: es menor con título en las 16. Un gráfico de barras 100% reparte la población de 15 años o más de cada nivel en ocupados, desocupados y fuera de la fuerza de trabajo, con las tasas al lado; otro, de columnas agrupadas por región (con y sin título, Chile primero con 6,8% y 9,7%), lleva la diferencia en pp bajo cada región y se desliza de lado en pantallas angostas. Las cifras completas están en "Ver cifras". Son diferencias descriptivas: no indican causa | Censo 2024 |
+| **Estudios y trabajo** | Ocupados, tasa de desocupación y tasa de participación por nivel, en Chile. Base: residencia y nivel informado (8.273.406 ocupados). También el % con título de los ocupados por sexo, y la tasa de desocupación con y sin título en cada región: es menor con título en las 16. Un gráfico de barras 100% reparte la población de 15 años o más de cada nivel en ocupados, desocupados y fuera de la fuerza de trabajo, con las tasas al lado; otro, de columnas agrupadas por región (con y sin título, Chile primero con 6,8% y 9,7%), lleva la diferencia en pp bajo cada región y se desliza de lado en pantallas angostas, con un aviso que solo aparece cuando el gráfico no cabe. Con título va en verde y sin título superior en gris: en verde se leía como titulado, porque es el color de los títulos en Educación por región. Las cifras completas están en "Ver cifras". Son diferencias descriptivas: no indican causa | Censo 2024 |
 | **Con título técnico o profesional** | En el gráfico de Actividades, a la derecha de cada barra, % de los ocupados de cada actividad con título técnico o profesional, según lugar de trabajo y con nivel informado. En todas las actividades es 39,6%; el 39,8% de los hallazgos se cuenta por residencia | Censo 2024 |
 | **Nivel de estudios de los ocupados** | Perfil de cada actividad, en Chile o en la región elegida, por sexo. Base: lugar de trabajo y nivel informado. El Censo registra la actividad solo de quienes trabajan, así que no hay tasa de desocupación por actividad. Bajo 60 personas lleva un asterisco: es un conteo del Censo, no una estimación, pero con tan pocas personas unas pocas cambian mucho el %. Bajo 10 se muestra "menos de 10" | Censo 2024 |
 
@@ -90,7 +90,7 @@ El CL se muestra con 2 decimales, y los tramos de color y la lectura se aplican 
 - **Región de trabajo:** 5,8% de los ocupados no la tiene, sobre todo quienes trabajan en varias comunas. Por eso Transporte, Construcción, Electricidad y Artes aparecen por debajo de su tamaño.
 - **Censo y ENE difieren en tamaño** en Salud y asistencia social, Minería, Electricidad, Serv. administrativos, Adm. pública y Enseñanza. El mapa lo avisa en cada caso. La diferencia sigue al comparar los mismos meses, así que no se debe a la fecha. La causa no está comprobada; en Minería, una posibilidad es cómo se clasifica a los contratistas.
 - **La tasa de desocupación difiere poco:** con los mismos meses, en profesionales es 6,3% en el Censo y 6,9% en ENE; en técnicos, 7,8% y 7,7%. Puede influir la forma de preguntar, sin comprobar.
-- **Cómo cambió la desocupación:** se mide ENE contra ENE, en marzo a julio de 2024 y de 2026, para que no cuente la estacionalidad. Nunca se resta el Censo de la ENE: son fuentes distintas. En el resumen, dos gráficos de columnas agrupadas, por nivel de estudios y por región (ambos con Chile), muestran la tasa de 2024 (ocre) y la de 2026 (azul) en una misma escala desde 0, con el cambio en pp debajo. Los grupos que quedan dentro del margen van en gris, para que se vea cuáles cambiaron; las tasas, el rango del 95% y la lectura de cada uno están en "Ver cifras" y al pasar el mouse. En pantallas angostas, el gráfico de regiones se desliza de lado. "Sube" o "baja" solo si el rango del cambio (95%) queda entero a un lado del cero; si lo incluye, el mapa dice "dentro del margen": la diferencia puede deberse a la muestra, que en las regiones chicas es menor y da un margen más ancho. El cambio que se muestra es la resta de las dos tasas redondeadas. Por región no se separa por nivel de estudios: la ENE no tiene muestra suficiente.
+- **Cómo cambió la desocupación:** se mide ENE contra ENE, en marzo a julio de 2024 y de 2026, para que no cuente la estacionalidad. Nunca se resta el Censo de la ENE: son fuentes distintas. En el resumen, dos gráficos de columnas agrupadas, por nivel de estudios y por región (ambos con Chile), muestran la tasa de 2024 (violeta claro) y la de 2026 (violeta oscuro) en una misma escala desde 0. Son dos tonos de un color, como el par gris, y no ocre y azul, que en Formalidad, justo antes, son informal y formal, con el cambio en pp debajo. Los grupos que quedan dentro del margen van en gris, para que se vea cuáles cambiaron; las tasas, el rango del 95% y la lectura de cada uno están en "Ver cifras" y al pasar el mouse. En pantallas angostas, el gráfico de regiones se desliza de lado, con el mismo aviso. "Sube" o "baja" solo si el rango del cambio (95%) queda entero a un lado del cero; si lo incluye, el mapa dice "dentro del margen": la diferencia puede deberse a la muestra, que en las regiones chicas es menor y da un margen más ancho. El cambio que se muestra es la resta de las dos tasas redondeadas. Por región no se separa por nivel de estudios: la ENE no tiene muestra suficiente.
 - **Formalidad:** ENE de marzo a julio de 2026, la misma ventana que el cambio de la desocupación. Se muestra en dos ejes, asalariado o independiente y formal o informal, porque un independiente puede ser formal o informal. En las tablas, cada cifra va en ocupados estimados, en unidades, con su %: en miles ("80" por 80 mil) se leía como 80 personas. Son estimaciones con muestra y tienen margen de error; en el texto y junto a los gráficos se redondean a mil o a millón. Junto a la informalidad se muestra la parte formal, para que se vean las dos partes que suman 100. Chile y los niveles de título llevan el reparto completo; las regiones, solo formal, informal e independientes, porque las cuatro casillas por separado quedan con poca muestra en las regiones chicas. El familiar no remunerado es la casilla más chica y se muestra solo donde es fiable: en Chile y sin título superior, no en profesionales (38 personas en la muestra) ni técnicos (49). En el resumen, cada barra reparte un grupo entre informal (ocre, primero, para que comparta la base) y formal (azul), con los dos % escritos. Por nivel hay tres gráficos con la misma escala: todos los ocupados (12,3% informal en profesionales y 36,0% sin título superior, las cifras del título; incluye al familiar no remunerado), asalariados (10,0% a 21,6%) e independientes (22,6% a 69,2%), con cuántos son al lado. La informalidad dentro de cada grupo se calcula desde los % sin redondear, y los ocupados del grupo son la suma de su formal e informal publicados, para que el gráfico y "Ver cifras" coincidan. Por región, las mismas barras van de mayor a menor informalidad, con Chile primero, una línea en su 26,6% y el % de independientes al lado; no se pintan regiones sobre o bajo Chile porque no hay margen de error por región. "Ver cifras" tiene el reparto completo por nivel, los ocupados formales e informales de asalariados e independientes con su % dentro del grupo (suman 100 en cada uno), y la tabla por región. El título de la sección da las dos partes: sin título superior, 64,0% formal y 36,0% informal; con título profesional, 87,7% y 12,3%. Cada cifra por actividad se muestra solo si es fiable (n ≥ 60, gl ≥ 9, CV ≤ 15): la informalidad en 15 actividades y los independientes en 12 de ellas.
 - **Pocas instituciones:** con 1 o 2 instituciones, el dato de MiFuturo describe más a ellas que a la carrera.
 - **Mapa:** no se dibujan Rapa Nui ni Juan Fernández, pero sus datos siguen en Valparaíso.

diff --git a/README.md b/README.md
@@ -6,7 +6,7 @@ Mapa interactivo sobre la situación laboral y educacional de Chile. Muestra dó
 
 La vista inicial resume la población, las 20 actividades (con un gráfico de hombres y mujeres y otro de la región donde más pesa cada una) y la formalidad del trabajo, con un índice de secciones y el hallazgo de cada una como título. Al elegir una actividad, el mapa colorea cada región según su coeficiente de localización (CL). Al elegir una región, se ven sus cifras por sexo y nivel de estudios, y las carreras afines a nivel nacional, cada una con su ficha de titulados, empleabilidad e ingresos.
 
-**Para verlo:** descarga [`docs/index.html`](docs/index.html) y ábrelo en el navegador. Es un solo archivo de 396 KB, sin servidor ni dependencias. Cada vista tiene su propio enlace: por ejemplo, `index.html#B/2` abre Minería en Antofagasta, y el botón "atrás" del navegador vuelve a la vista anterior.
+**Para verlo:** descarga [`docs/index.html`](docs/index.html) y ábrelo en el navegador. Es un solo archivo de 398 KB, sin servidor ni dependencias. Cada vista tiene su propio enlace: por ejemplo, `index.html#B/2` abre Minería en Antofagasta, y el botón "atrás" del navegador vuelve a la vista anterior.
 
 ![Vista inicial del mapa: cada región tiene el color de la actividad que la distingue, junto a los principales hallazgos, la lista de regiones y el gráfico de hombres y mujeres por actividad](docs/mapa.png)
 
